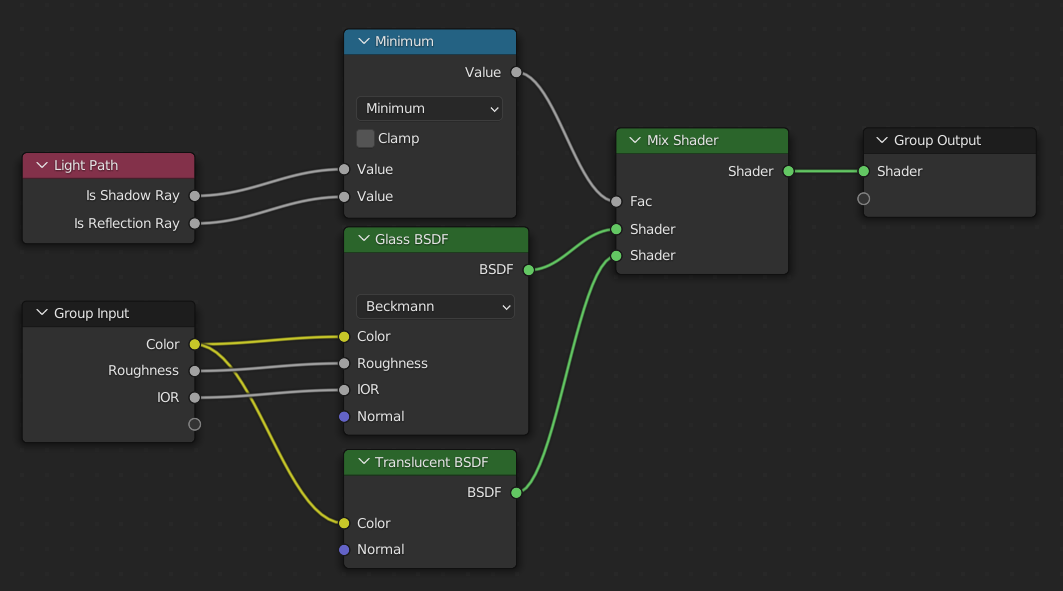
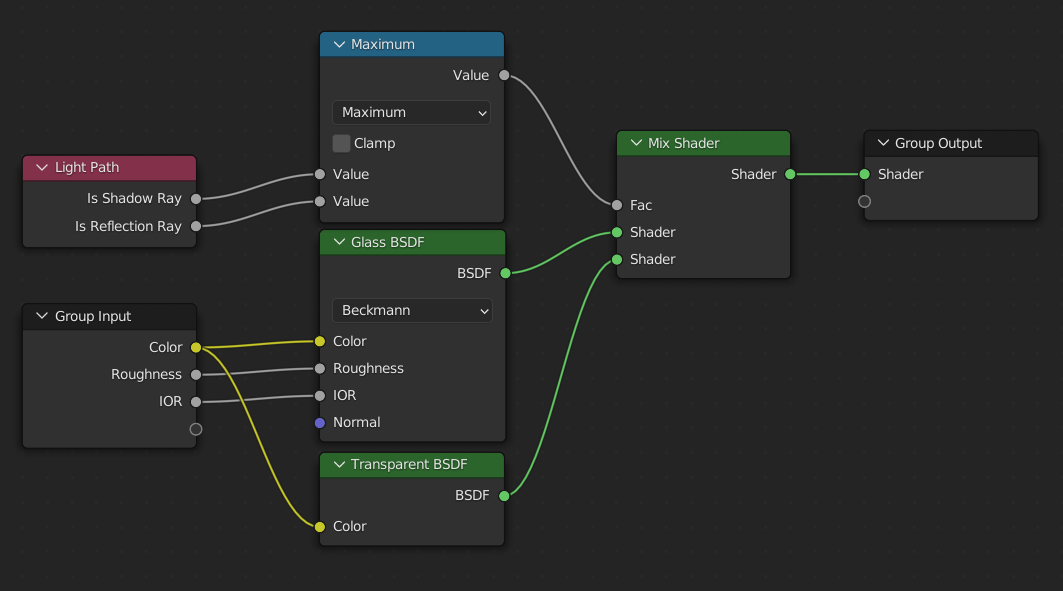
Fix T97745: Incorrect image and text for glass shadow trick
git-svn-id: https://svn.blender.org/svnroot/bf-manual/trunk/blender_docs@9231 c4de1f47-6596-e411-a384-0024e86c2797

diff --git a/manual/render/cycles/optimizations/reducing_noise.rst b/manual/render/cycles/optimizations/reducing_noise.rst
@@ -243,8 +243,8 @@ enabling this option may take samples away from more important light sources if 
 Glass and Transparent Shadows
 =============================
 
-With caustics disabled, glass will miss shadows,
-and with filter glossy they might be too soft.
+With caustics disabled, glass shadows may appear too dark,
+and with filter glossy the caustics might be too soft.
 We can make a glass shader that will use a Glass BSDF when viewed *directly*,
 and a Transparent BSDF when viewed *indirectly*. The Transparent BSDF can be used for
 transparent shadows to find light sources straight through surfaces,
@@ -256,7 +256,7 @@ The Light Path node is used to determine when to use which of the two shaders.
    Optimized glass shader.
 
 Above we can see the node setup used for the glass transparency trick;
-on the left the render has too much shadow due to missing caustics,
+on the left the render has dark shadows due to missing caustics,
 and on the right the render with the trick.
 
 .. list-table::
